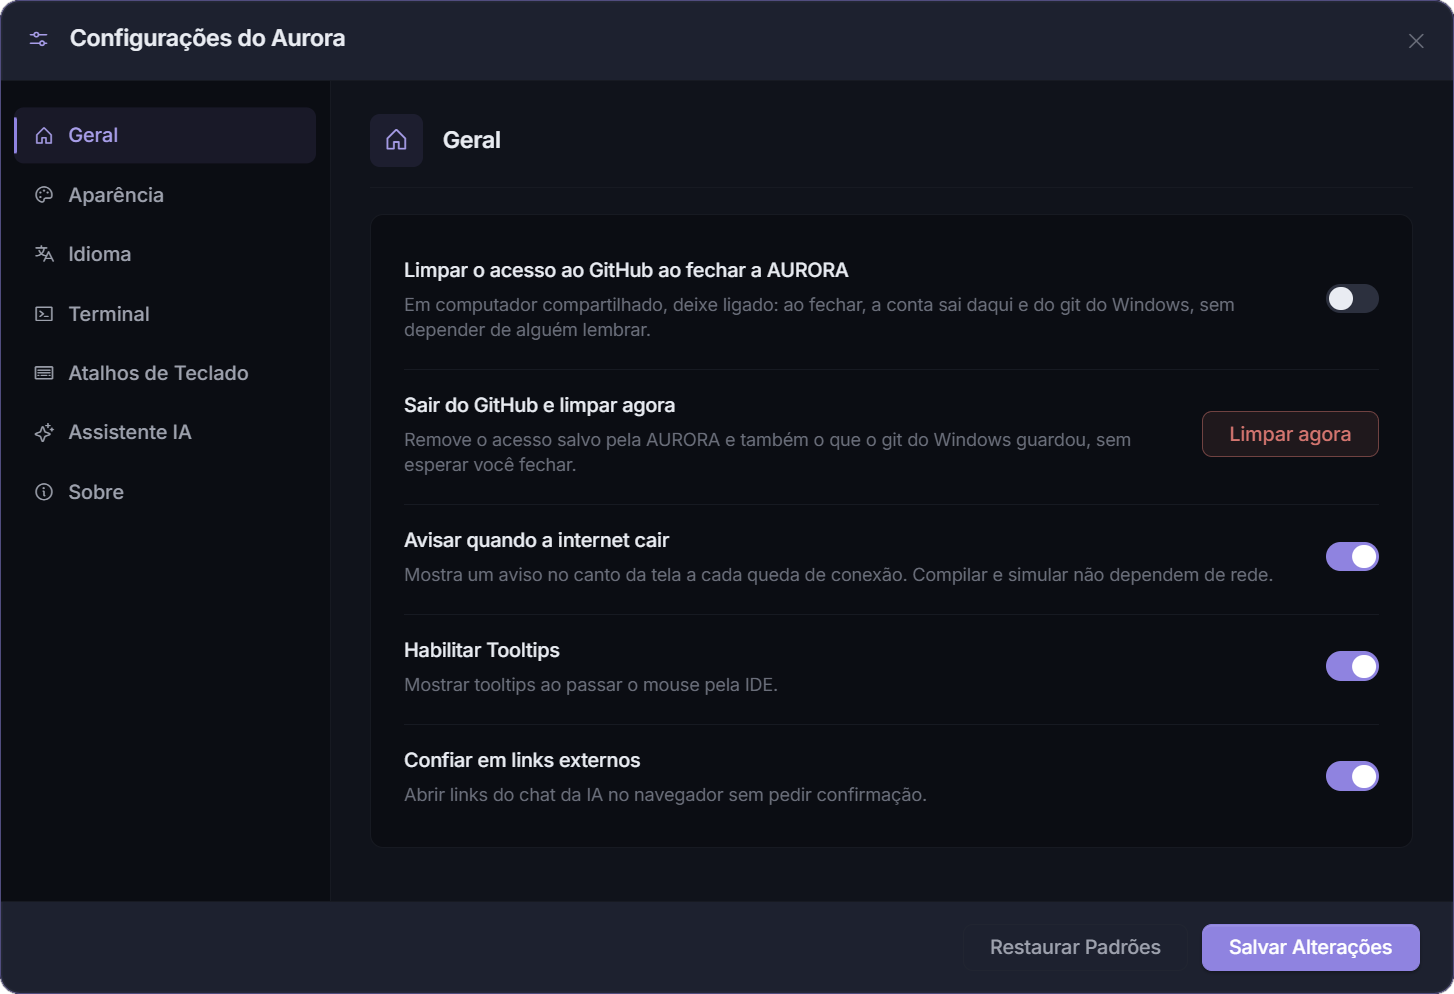
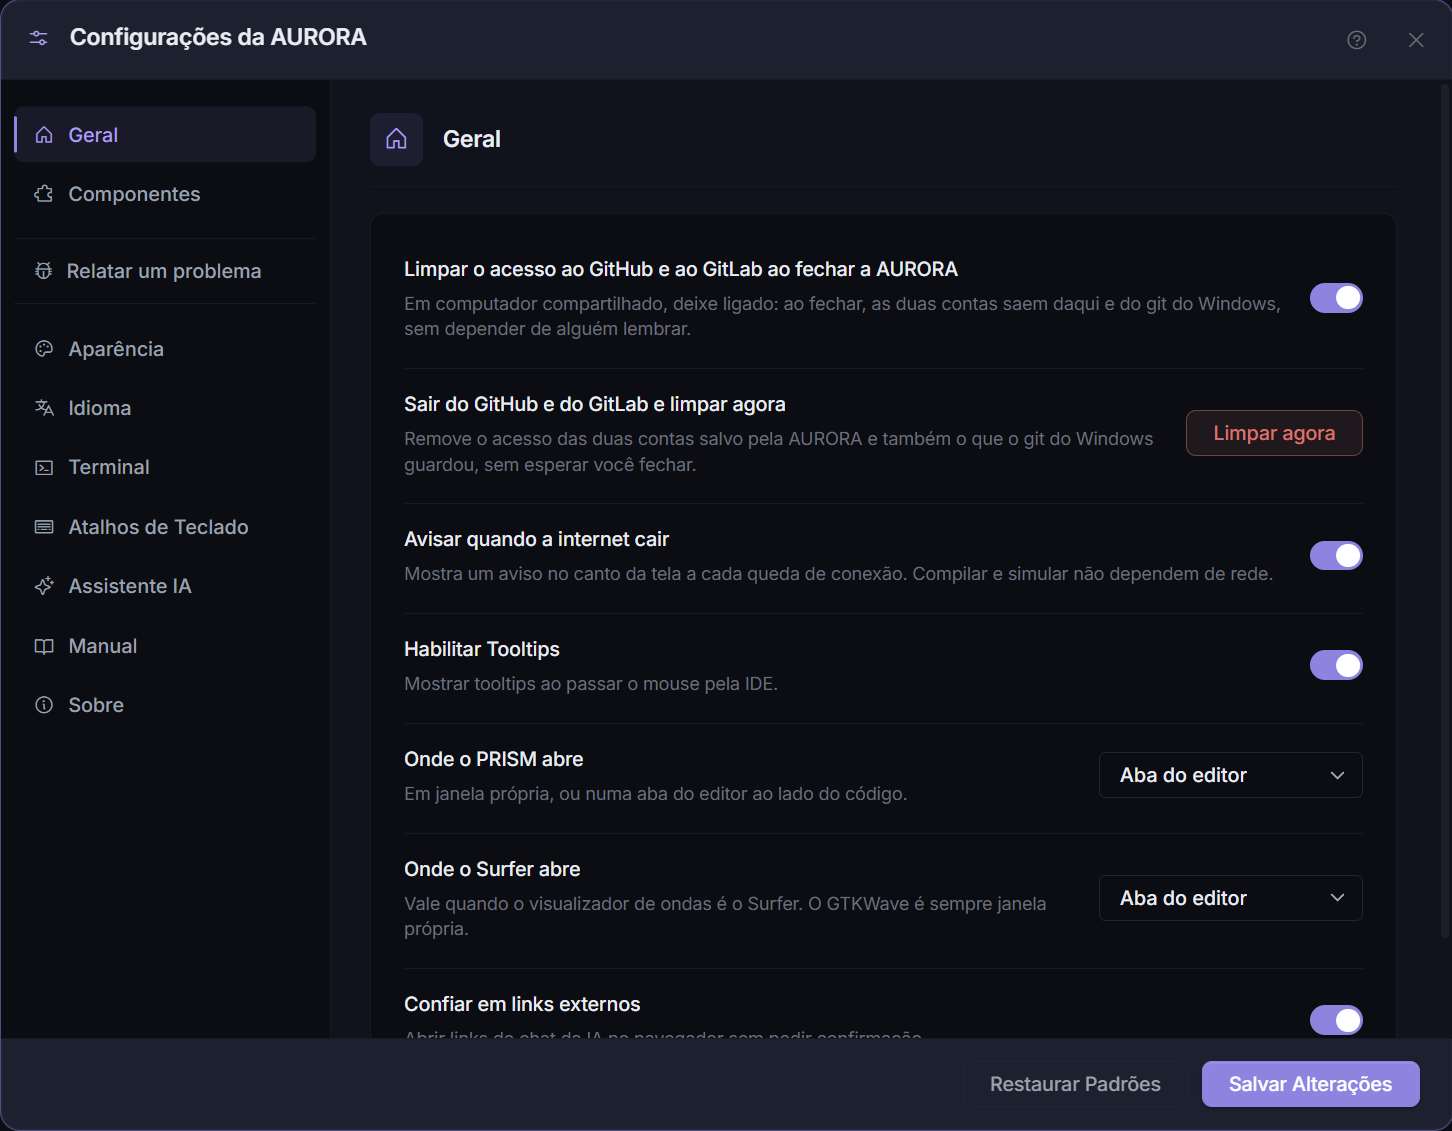
Dezenove capturas reais no lugar dos retangulos cinza e das telas velhas
Feitas com a AURORA rodando do repositorio, em portugues, num monitor
2560x1440. Do PRISM saem a aba do editor, o modo Simular do contador com
a barra de tempo e os dois paineis, o parar em disparado com o cursor de
tempo, o balao do barramento, a simulacao dentro da ula com a trilha, a
onda exportada aberta no GTKWave, e enfim o media-movel e o seu interior
com as skins do SAPHO carregando, que era o item de prioridade maxima.
Do resto da IDE entram o historico de compilacoes com uma execucao
aberta, as secoes Geral, Componentes, Atalhos, Assistente IA e Sobre das
Configuracoes, o relato com o diagnostico a vista, o modal de ondas com
o aviso do Verilator, o Surfer em aba, a tela de boas-vindas e a barra de
status com o indicador de energia.

Ficam de fora tres, todas dependentes do dono da maquina: as duas do
painel de IA, que gastam a chave de API, e a do Git-D com o GitLab, que
pede conta conectada. O IMAGENS.md registra isso, mais quatro achados da
sessao: o cartao da secao Manual ainda mostra chaves cruas de i18n, o
balao de celula do PRISM fica preso na tela, o .gtkw gerado abre com os
grupos colapsados, e o Surfer em aba demora muito para carregar o VCD.

diff --git a/IMAGENS.md b/IMAGENS.md
@@ -1,50 +1,63 @@
 # Lista de capturas de tela do manual
 
-Situação em 30/08/2026 (revisão da base 6.11.0): **69 capturas reais, 9 pendentes da 6.11.0** (retângulos cinza no repositório) **e 17 itens marcados para refazer** (listas abaixo).
+Situação em 30/08/2026, depois da sessão de capturas da tarde: **19 capturas novas ou refeitas entraram**, feitas na AURORA rodando do repositório (`npm start`), em português, num monitor 2560x1440. **Faltam 3**, todas dependentes de algo que só o Chrysthofer pode fazer, listadas logo abaixo.
 
 Para trocar qualquer captura, salve o PNG novo por cima, com o mesmo nome, em `source/_static/assets/screenshots/`, e passe o `python scripts/enquadrar.py <arquivo>`, que corta a sobra de fundo e recorta o canto arredondado da janela. O build roda com `-W`, então uma imagem ausente derruba a documentação inteira: nunca apague, sempre substitua.
+
+## Feitas em 30/08/2026
+
+Capturadas com a AURORA rodando do repositório (`npm start`, versão de desenvolvimento 6.10.0), interface em português, no projeto de exemplo `contador` (o modo Simular do PRISM) e no `media-movel` (o processador). Todas em 2560x1368, exceto os recortes de região.
+
+**Do PRISM e da simulação:** `aurora-prism-aba.png` (o PRISM numa aba do editor), `aurora-prism-simulacao.png` (o contador simulando, com a barra de tempo, o painel de E/S e o monitor, `conta` subindo de 95 a 107), `aurora-prism-sim-parada.png` (o "parar em" disparado em 160, com o cursor de tempo e os valores por linha), `aurora-prism-sim-fio.png` (o balão do barramento `conta`, hex a0, dec 160, bin 10100000), `aurora-prism-sim-submodulo.png` (dentro da `ula` com a simulação correndo, trilha `core › ula`), `aurora-prism-onda.png` (o GTKWave aberto pelo "Abrir no WAVE", com os grupos Clock, Outputs e Internal), `aurora-prism-media-movel.png` e `aurora-prism-interno.png` (agora com as skins do SAPHO carregando, que era o item de prioridade máxima).
+
+**Do resto da IDE:** `aurora-historico-compilacoes.png` (uma execução aberta, com o estado do projeto na hora), `aurora-settings-geral.png` (com "Onde o PRISM abre" e "Onde o Surfer abre"), `aurora-componentes.png`, `aurora-settings-atalhos.png` (com "Gravando..."), `aurora-settings-ia.png` (Sonnet 5 como modelo padrão da Anthropic), `aurora-settings-sobre.png` (já sem os links do manual), `aurora-relato.png` (com o diagnóstico expandido), `aurora-wave-config.png` (com o aviso do Verilator), `aurora-surfer.png` (o Surfer numa aba do editor), `aurora-boas-vindas.png` (com "Projetos de exemplo...") e `aurora-barra-status.png` (com o indicador de energia).
 
 ## Para refazer
 
 Todas numa AURORA **6.11.0 instalada** (não em modo de desenvolvimento), com a **interface em português**.
 
-1. `aurora-prism-media-movel.png`, `aurora-prism-interno.png`, `aurora-prism-deslocador.png`, `aurora-prism-divisor.png`: **prioridade máxima**. Na 6.4.2 instalada as skins do SAPHO não carregavam; refazer com skins, a etiqueta de largura `/32/` e, se couber, o menu de contexto com "Destacar conexões".
-2. `aurora-settings-manual.png`: a captura atual mostra as chaves cruas `modal.settings.manualInstalled` no cartão de estado (bug da AURORA, a reportar) e está em inglês. Refazer depois da correção, em português.
-3. `aurora-gitd-contas.png`: a atual está em inglês e sem nenhuma conta conectada. Refazer em português, com ao menos uma conta logada.
-4. `aurora-relato.png`: a atual está em inglês e com o diagnóstico recolhido. Refazer em português, com "Ver o diagnóstico que vai junto" expandido.
-5. `aurora-componentes.png`: a atual está em inglês e rolada para o fim da lista. Refazer em português, do topo, com o MSYS ou o YANC visível para o selo "Necessário para compilar" aparecer.
-6. `aurora-surfer.png`: o Surfer agora abre como aba do editor; capturar a aba, com os fontes ao lado.
+1. `aurora-prism-deslocador.png` e `aurora-prism-divisor.png`: o par do experimento do tutorial. Exige compilar o `.cmm` com `soma >> 2`, entrar na `ula` e capturar, depois trocar por `soma / 4`, recompilar e capturar de novo. (As outras duas do PRISM, `aurora-prism-media-movel.png` e `aurora-prism-interno.png`, já saíram em 30/08 com as skins.)
+2. `aurora-settings-manual.png`: **o bug continua**. Em 30/08, com a interface em português, o cartão de estado ainda mostra as chaves cruas `modal.settings.manualInstalled` e `modal.settings.manualVersion`. As chaves existem em `locales/pt.json` (linhas 385-388) e em `dist/locales/pt.json`, então o defeito está em quem as resolve, não na tradução. Refazer depois da correção.
+3. `aurora-gitd-contas.png`: a atual está em inglês e sem nenhuma conta conectada. Refazer em português, com ao menos uma conta logada. (É a mesma tela de `aurora-dagr-gitlab.png`, que também falta.)
+4. ~~`aurora-relato.png`~~: feita em 30/08, em português e com o diagnóstico expandido.
+5. ~~`aurora-componentes.png`~~: feita em 30/08, em português e do topo da lista. Nesta máquina todos os componentes estão instalados, então o selo "Necessário para compilar" não aparece; quem tiver uma instalação limpa pode melhorar a captura.
+6. ~~`aurora-surfer.png`~~: feita em 30/08, com o Surfer na aba do editor.
 7. `aurora-instalador.png`: o instalador agora abre na página de licença com aceite obrigatório.
 8. `aurora-splash.png`: a splash mudou, com o céu real do catálogo HYG e a aurora nova.
-9. `aurora-boas-vindas.png`: entram o item "Projetos de exemplo...", o "Localizar ausentes" e a lupa nas linhas riscadas.
+9. `aurora-boas-vindas.png`: feita em 30/08 com o item "Projetos de exemplo...", mas **sem nenhum recente riscado**, porque nesta máquina todos os projetos existem. Para mostrar a lupa e o "Localizar ausentes", mova a pasta de um projeto recente para fora e capture de novo.
 10. `aurora-primeiro-inicio.png`: idem, o item "Projetos de exemplo..." na coluna Início.
 11. `aurora-dagr-alteracoes.png` e `aurora-dagr-historico.png`: o painel se chama Git-D agora (os nomes de arquivo ficam, só a captura muda).
 12. `aurora-wave-config.png`: o modal ganhou o aviso do Verilator. A escolha de aba ou janela do Surfer saiu do modal: mora nas Configurações, aba Geral, junto com a do PRISM.
-13. `aurora-settings-geral.png`: a aba Geral ganhou a limpeza de acesso ao Git, o aviso de internet e as opções "Onde o PRISM abre" e "Onde o Surfer abre"; o Relatar mora na barra lateral, que tem 9 abas.
-14. `aurora-settings-sobre.png`: o manual e o relatar problema saíram da aba Sobre.
-15. `aurora-barra-status.png`: entram as duas fichas de conta (GitHub e GitLab) e o indicador de energia (capturar num laptop).
-16. `aurora-terminais.png`: agora são sete abas, com a TPRISM; se possível, capturar durante uma simulação, com a barra de progresso e o marcador de tamanho do dump no TWAVE.
-17. `aurora-settings-ia.png`: o cartão da Anthropic ganhou o Sonnet 5 como padrão e o campo "Esforço e raciocínio".
+13. ~~`aurora-settings-geral.png`~~: feita em 30/08, com as duas opções novas à vista.
+14. ~~`aurora-settings-sobre.png`~~: feita em 30/08.
+15. `aurora-barra-status.png`: feita em 30/08, com o indicador de energia. As fichas de conta não aparecem porque não havia conta conectada; vale refazer junto com a do Git-D.
+16. `aurora-terminais.png`: agora são sete abas, com a TPRISM. **Não consegui capturar**: nesta sessão o painel de terminais ficou colapsado no rodapé e não abriu com clique na aba, duplo clique, arrasto da divisória nem pela paleta de comandos (que só oferece "Clear terminal"). Capturar com o painel aberto, de preferência durante uma simulação, com a barra de progresso e o marcador de tamanho do dump no TWAVE.
+17. ~~`aurora-settings-ia.png`~~: feita em 30/08, com o Sonnet 5 como modelo padrão da Anthropic. O campo "Esforço e raciocínio" não aparece no cartão sem chave configurada.
 
 ## Recebidas em 27/08 e já no lugar
 
-`aurora-dirac-autocompletar.png` e `aurora-componentes-boot.png` chegaram em português e ficam como estão. As quatro dos itens 2 a 5 acima também entraram (são melhores que o retângulo cinza), mas com as ressalvas anotadas.
+`aurora-dirac-autocompletar.png` e `aurora-componentes-boot.png` chegaram em português e ficam como estão.
 
-## Pendentes da 6.11.0 (retângulos cinza no repositório)
+## O que a sessão de capturas ensinou
 
-O modo Simular do PRISM se captura melhor no projeto do contador (tutorial Verilog): pequeno, com `clk`, e a contagem faz uma onda legível.
+Anotado para quem for repetir o trabalho:
 
-| Arquivo | O que deve mostrar |
-|---|---|
-| `aurora-prism-simulacao.png` | PRISM no modo Simular com o contador: a barra de tempo (Rodar, Tick, Próximo evento, Rápido, Reiniciar, contador de ticks, meio período, velocidade), o painel Entradas e saídas e o monitor Formas de onda abertos, com `conta` subindo. |
-| `aurora-prism-sim-parada.png` | O monitor depois de um "parar em" disparar (por exemplo `conta` = F): o aviso "Parou no tick N" e o cursor de tempo numa onda, com os valores daquele tick em cada linha. |
-| `aurora-prism-sim-fio.png` | O balão de um barramento ao passar o mouse sobre o fio, com nome, faixa de bits e as linhas hex, dec e bin. Recorte de região. |
-| `aurora-prism-sim-submodulo.png` | Dentro de um submódulo durante a simulação, com a trilha de caminho no topo e o Voltar. A `ula` do `media_movel` é um bom alvo; se não couber no limite, qualquer módulo com submódulo serve. |
-| `aurora-prism-aba.png` | O PRISM aberto numa aba do editor, ao lado do `.cmm`, depois de escolher "Aba do editor" em Configurações, Geral. |
-| `aurora-prism-onda.png` | O visualizador de ondas aberto pelo "Abrir no WAVE" da simulação, com os sinais do monitor agrupados por papel (relógio, entradas, saídas). |
-| `aurora-historico-compilacoes.png` | O modal Histórico de compilações com uma execução aberta: a lista (Pedido, Quando, Duração, Passos, Desfecho), o "Estado do projeto na hora" e "O que rodou". Melhor ainda com uma execução em andamento no topo. |
-| `aurora-ia-tutorial.png` | Painel da Aurora Intelligence logo depois de clicar no capelo: a primeira resposta do tutorial guiado. |
-| `aurora-ia-prism-sim.png` | Uma conversa em que a assistente opera o Simular do PRISM: o cartão de permissão de uma ferramenta `prism_sim` ou a resposta com os valores lidos. |
+- O cursor do mouse **não** entra nas capturas: o `CopyFromScreen` do GDI não desenha o ponteiro. Para o balão de um fio aparecer, porém, o ponteiro precisa estar sobre ele, e o balão sai na foto.
+- O balão de célula do PRISM ("Clique para abrir · Shift+clique destaca conexões") **fica preso na tela** depois que o ponteiro sai da célula. É por isso que ele aparece na `aurora-prism-sim-submodulo.png`. Some ao recompilar o diagrama.
+- O `.gtkw` que o "Abrir no WAVE" gera abre com os três grupos **colapsados** (`@c00200`), então a onda parece vazia; basta clicar em cada grupo. Vale considerar gerar com `@800200`.
+- O Surfer em aba demora bastante para o WebAssembly carregar o VCD: na primeira olhada parece que não abriu, e um minuto depois a onda está lá.
+
+## As três que faltam
+
+Nenhuma delas dá para fazer sem você: duas gastam a sua chave de API e uma precisa de conta conectada.
+
+| Arquivo | O que deve mostrar | Por que depende de você |
+|---|---|---|
+| `aurora-ia-tutorial.png` | Painel da Aurora Intelligence logo depois de clicar no capelo do cabeçalho: a primeira resposta do tutorial guiado. | Precisa de um provedor configurado, e a conversa consome créditos. |
+| `aurora-ia-prism-sim.png` | Uma conversa em que a assistente opera o Simular do PRISM: o cartão de permissão de uma ferramenta `prism_sim`, ou a resposta com os valores lidos do circuito. | Idem, e ainda exige o PRISM em simulação ao lado. |
+| `aurora-dagr-gitlab.png` | Painel Git-D com as contas do GitHub e do GitLab lado a lado, ou o botão Entrar com GitLab. | Precisa de pelo menos uma conta conectada. |
+
+As três continuam no repositório como retângulos cinza, e o build passa.
 
 Padrão de captura:
 
